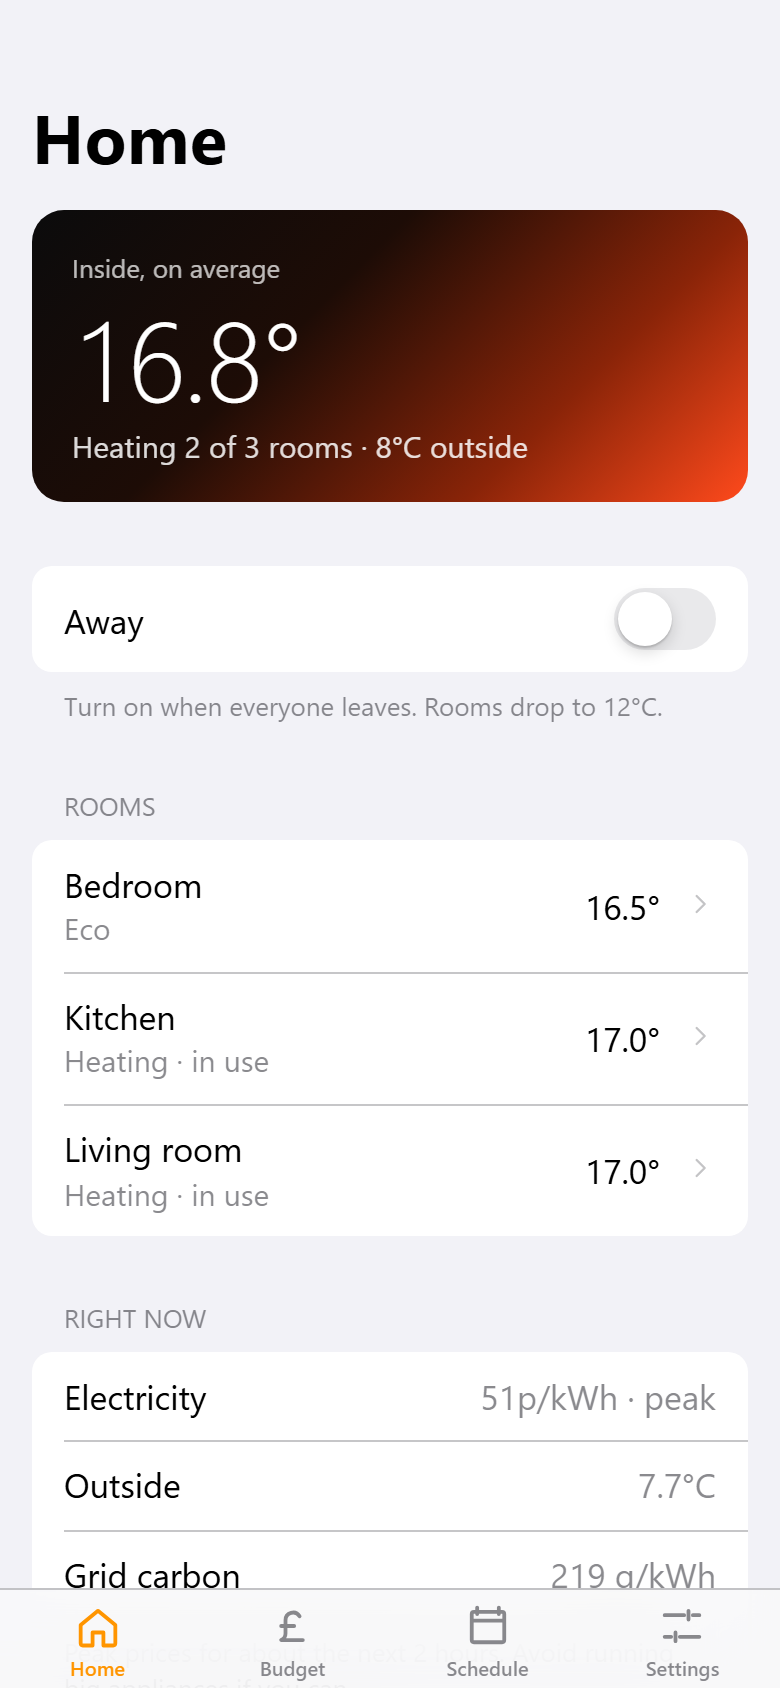
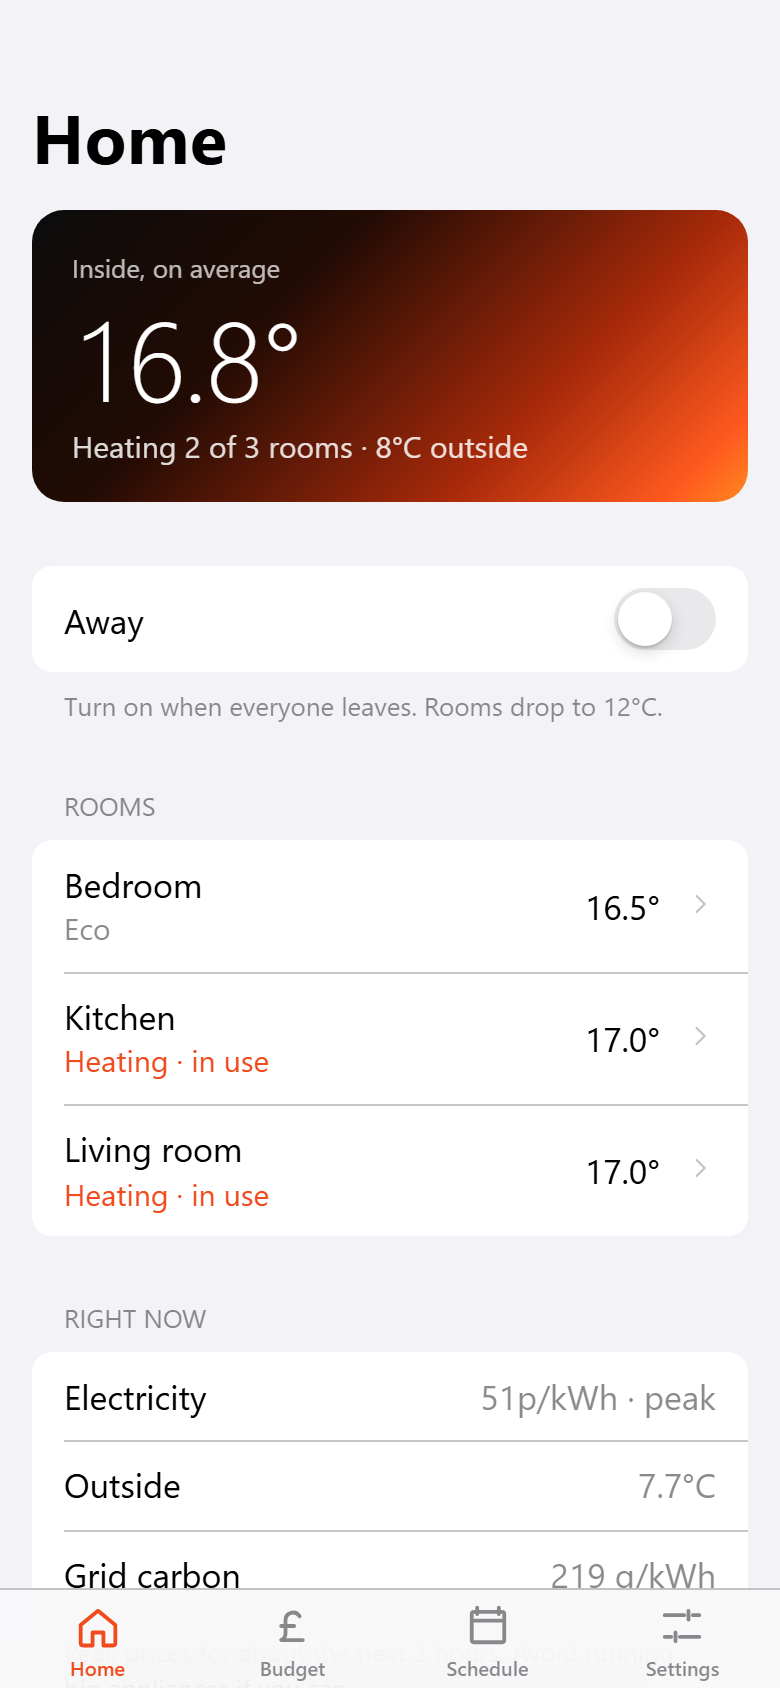
Add Appearance setting (System/Light/Dark) and an orange-red accent
Segmented control in Settings, remembered per device; accent moved to
orange-red with gradient chart bars, heating status text and a warmer
summary panel. Screenshots refreshed in both modes.

diff --git a/app/styles.css b/app/styles.css
@@ -14,7 +14,8 @@
   --fill: rgba(120, 120, 128, 0.16);
   --pressed: rgba(0, 0, 0, 0.06);
   --bar: rgba(249, 249, 249, 0.82);
-  --tint: #ff9500;          /* the one accent: system orange */
+  --tint: #f04a1d;          /* the one accent: orange-red */
+  --tint-2: #ff8a1f;        /* its warmer end, used only inside gradients */
   --red: #ff3b30;
   /* Text styles (rem so the browser's text size setting scales everything) */
   --large-title: 700 2.125rem/1.2 var(--font);
@@ -31,14 +32,14 @@
     --bg: #000000; --cell: #1c1c1e; --label: #ffffff;
     --secondary: rgba(235, 235, 245, 0.6); --tertiary: rgba(235, 235, 245, 0.3);
     --separator: rgba(84, 84, 88, 0.6); --fill: rgba(120, 120, 128, 0.32); --pressed: rgba(255, 255, 255, 0.08);
-    --bar: rgba(22, 22, 24, 0.82); --tint: #ff9f0a; --red: #ff453a;
+    --bar: rgba(22, 22, 24, 0.82); --tint: #ff6a3d; --tint-2: #ffa23a; --red: #ff453a;
   }
 }
 :root[data-theme="dark"] {
   --bg: #000000; --cell: #1c1c1e; --label: #ffffff;
   --secondary: rgba(235, 235, 245, 0.6); --tertiary: rgba(235, 235, 245, 0.3);
   --separator: rgba(84, 84, 88, 0.6); --fill: rgba(120, 120, 128, 0.32); --pressed: rgba(255, 255, 255, 0.08);
-  --bar: rgba(22, 22, 24, 0.82); --tint: #ff9f0a; --red: #ff453a;
+  --bar: rgba(22, 22, 24, 0.82); --tint: #ff6a3d; --tint-2: #ffa23a; --red: #ff453a;
 }
 
 * { box-sizing: border-box; }
@@ -74,6 +75,7 @@ button.row:active { background: var(--pressed); }
 .row-main { flex: 1 1 auto; min-width: 0; }
 .row-title { font: var(--body); }
 .row-sub { font: var(--subhead); color: var(--secondary); margin-top: 2px; }
+.row-sub.active { color: var(--tint); }
 .row-value { font: var(--body); color: var(--secondary); font-variant-numeric: tabular-nums; text-align: right;
              flex: 0 1 auto; min-width: 0; overflow-wrap: anywhere; }
 /* Large text: stack the value under the title, as iOS does at accessibility sizes */
@@ -92,17 +94,25 @@ button.row:active { background: var(--pressed); }
 .figure .caption { font: var(--subhead); color: var(--secondary); margin-top: 4px; }
 .progress { height: 6px; border-radius: 3px; background: var(--fill); margin-top: 12px; overflow: hidden; }
 .progress > span { display: block; height: 100%; border-radius: 3px;
-                   background: linear-gradient(90deg, var(--tint), #ff3b1f); }
+                   background: linear-gradient(90deg, var(--tint-2), var(--tint)); }
 
 /* Summary panel: the app's one splash of colour. Black into orange-red, like a Wallet card.
    Always dark with white text, so it reads the same in light and dark mode. */
 .hero { margin: 0 16px 32px; padding: 20px 20px 18px; border-radius: 16px; color: #fff;
-        background: linear-gradient(135deg, #0b0b0c 0%, #1d0c06 38%, #8a2408 72%, #ff4a1c 100%); }
+        background: linear-gradient(135deg, #0b0b0c 0%, #220b04 34%, #a82a0a 70%, #ff5a1f 92%, #ff8a1f 100%); }
 .hero .eyebrow { font: var(--footnote); color: rgba(255, 255, 255, 0.72); }
 .hero .reading { font: 300 3.5rem/1.05 var(--font); letter-spacing: -0.02em; margin-top: 6px; font-variant-numeric: tabular-nums; }
 .hero .detail { font: var(--subhead); color: rgba(255, 255, 255, 0.85); margin-top: 6px; }
 
 /* Controls */
+.segmented { display: flex; flex: 1; background: var(--fill); border-radius: 9px; padding: 2px; gap: 2px; }
+.segmented button { flex: 1; min-height: 32px; border: 0; border-radius: 7px; background: none; color: var(--label);
+                    font: 500 0.8125rem/1 var(--font); cursor: pointer; }
+.segmented button.on { background: var(--cell); box-shadow: 0 3px 8px rgba(0,0,0,.12), 0 1px 1px rgba(0,0,0,.08); font-weight: 600; }
+:root[data-theme="dark"] .segmented button.on { background: #636366; }
+@media (prefers-color-scheme: dark) { :root:not([data-theme="light"]) .segmented button.on { background: #636366; } }
+.segmented button:focus-visible { outline: 2px solid var(--tint); outline-offset: 1px; }
+
 .switch { position: relative; width: 51px; height: 31px; flex: none; }
 .switch input { position: absolute; inset: 0; opacity: 0; margin: 0; cursor: pointer; z-index: 1; }
 .switch span { position: absolute; inset: 0; border-radius: 16px; background: var(--fill); transition: background .2s; }
@@ -145,7 +155,8 @@ button.row:active { background: var(--pressed); }
 .chart svg { display: block; width: 100%; height: auto; }
 .chart .axis { fill: var(--secondary); font: var(--caption); }
 .chart .bar { fill: var(--fill); }
-.chart .bar.on { fill: var(--tint); }
+.chart .bar.on { fill: url(#heat); }
+.chart .heat-top { stop-color: var(--tint-2); } .chart .heat-bottom { stop-color: var(--tint); }
 .chart .grid { stroke: var(--separator); stroke-width: 0.5; }
 
 /* Content unavailable and loading */

diff --git a/app/js/ui.js b/app/js/ui.js
@@ -58,10 +58,10 @@ export function section({ header, footer, footerWarning } = {}, ...rows) {
 }
 
 // A row: title, optional subtitle, optional trailing value, optional chevron (navigation).
-export function row({ title, sub, value, strong, onClick, chevron, trailing, label }) {
+export function row({ title, sub, subActive, value, strong, onClick, chevron, trailing, label }) {
   const tag = onClick ? "button" : "div";
   return h(tag, { class: "row", role: onClick ? null : "listitem", onclick: onClick, "aria-label": label },
-    h("div", { class: "row-main" }, h("div", { class: "row-title" }, title), sub ? h("div", { class: "row-sub" }, sub) : null),
+    h("div", { class: "row-main" }, h("div", { class: "row-title" }, title), sub ? h("div", { class: "row-sub" + (subActive ? " active" : "") }, sub) : null),
     value != null ? h("span", { class: "row-value" + (strong ? " strong" : "") }, value) : null,
     trailing || null,
     chevron ? h("span", { class: "chevron" }, icon("chevronRight", 16)) : null);
@@ -85,6 +85,16 @@ export function stepper(value, { min, max, step = 1, onChange, label }) {
     onclick: () => { haptic(); onChange(Math.min(max, Math.max(min, value + delta))); },
   }, icon(name, 18));
   return h("div", { class: "stepper", role: "group", "aria-label": label }, btn("minus", -step, "Decrease"), btn("plus", step, "Increase"));
+}
+
+// Segmented control (Picker with .segmented style).
+export function segmented(options, selected, onChange, label) {
+  return h("div", { class: "segmented", role: "radiogroup", "aria-label": label },
+    options.map(o => h("button", {
+      type: "button", role: "radio", "aria-checked": String(o.id === selected),
+      class: o.id === selected ? "on" : null,
+      onclick: () => { if (o.id !== selected) { haptic(); onChange(o.id); } },
+    }, o.label)));
 }
 
 // ---------- Action sheet (confirmationDialog) ----------

diff --git a/app/js/screens/room.js b/app/js/screens/room.js
@@ -17,6 +17,11 @@ function planChart(hours, targets, kinds) {
   const y = t => top + (H - top - bottom) * (1 - (Math.min(hi, Math.max(lo, t)) - lo) / (hi - lo));
   const chart = svg("svg", { viewBox: `0 0 ${W} ${H}`, role: "img",
     "aria-label": `Planned temperature for the next 24 hours, heating in ${kinds.filter(k => k === "heat").length} of them` });
+  const defs = svg("defs", {});
+  const grad = svg("linearGradient", { id: "heat", x1: 0, y1: 0, x2: 0, y2: 1 });
+  grad.append(svg("stop", { offset: "0", class: "heat-top" }), svg("stop", { offset: "1", class: "heat-bottom" }));
+  defs.append(grad);
+  chart.append(defs);
   for (const t of [12, 17, 22]) chart.append(svg("line", { class: "grid", x1: 0, x2: W, y1: y(t), y2: y(t) }));
   targets.forEach((t, i) => chart.append(svg("rect", {
     class: "bar" + (kinds[i] === "heat" ? " on" : ""), x: i * bw + 1, width: bw - 2,
@@ -38,7 +43,7 @@ export function render({ state }, nav, roomId) {
     hero({ eyebrow: r.heating ? "Heating" : r.status, reading: temp(r.temp), label: `${roomName(r.name)} ${temp(r.temp)}, target ${temp(r.target)}`,
       detail: `Target ${temp(r.target)}` }),
     section({ header: "Why" }, h("div", { class: "text-cell" }, r.why)),
-    section({ header: "Next 24 hours", footer: "Orange hours are when it heats, based on your usual routine and today's electricity prices." },
+    section({ header: "Next 24 hours", footer: "Coloured hours are when it heats, based on your usual routine and today's electricity prices." },
       planChart(p.hours, p.targets[r.name], p.rooms[r.name])),
   ];
 }

diff --git a/app/js/screens/settings.js b/app/js/screens/settings.js
@@ -1,6 +1,7 @@
 // Settings: connect the calendar and set comfort. A plain form that saves as you go.
 import { api, store } from "../api.js";
-import { action, h, haptic, largeTitle, placeholderSection, row, section, stepper, unavailable } from "../ui.js";
+import * as theme from "../theme.js";
+import { action, h, haptic, largeTitle, placeholderSection, row, section, segmented, stepper, unavailable } from "../ui.js";
 
 export const title = "Settings";
 let calendarMessage = null;  // inline result of the last connect attempt
@@ -54,8 +55,11 @@ export function render({ state, loading, error }) {
   if (error && !state) return unavailable({ iconName: "offline", title: "Can't load settings",
     message: "Check that the Heatwise server is running, then try again.", actionLabel: "Try again", onAction: api.load });
   const c = state.comfort_c;
+  const appearance = theme.saved();
   return [
     largeTitle(title),
+    section({ header: "Appearance", footer: appearance === "system" ? "Follows your device's light or dark setting." : null },
+      h("div", { class: "row" }, segmented(theme.CHOICES, appearance, choice => { theme.set(choice); api.load(); }, "Appearance"))),
     calendarSection(state),
     section({ header: "Comfort", footer: "Used for rooms that are in use. Bedrooms stay at 17°C overnight." },
       row({ title: "Daytime", value: `${c}°C`,

diff --git a/app/js/theme.js b/app/js/theme.js
@@ -1,0 +1,27 @@
+// Appearance: System, Light or Dark. Remembered on this device only (browser storage),
+// which is fine for a display preference. Storage can be unavailable (private mode),
+// so every access is wrapped and the app falls back to System.
+
+const KEY = "heatwise-appearance";
+export const CHOICES = [
+  { id: "system", label: "System" },
+  { id: "light", label: "Light" },
+  { id: "dark", label: "Dark" },
+];
+
+export function saved() {
+  try { return localStorage.getItem(KEY) || "system"; } catch { return "system"; }
+}
+
+export function apply(choice) {
+  const root = document.documentElement;
+  if (choice === "light" || choice === "dark") root.dataset.theme = choice;
+  else delete root.dataset.theme;
+  const dark = choice === "dark" || (choice === "system" && matchMedia("(prefers-color-scheme: dark)").matches);
+  document.querySelector('meta[name="theme-color"]:not([media])')?.setAttribute("content", dark ? "#000000" : "#f2f2f7");
+}
+
+export function set(choice) {
+  try { localStorage.setItem(KEY, choice); } catch { /* not stored; still applies for this visit */ }
+  apply(choice);
+}

diff --git a/app/js/main.js b/app/js/main.js
@@ -1,6 +1,7 @@
 // App shell: tab bar (TabView), a navigation stack per tab, and rendering from the store.
 import { api, store, subscribe } from "./api.js";
 import { h, icon } from "./ui.js";
+import * as theme from "./theme.js";
 import * as home from "./screens/home.js";
 import * as room from "./screens/room.js";
 import * as budget from "./screens/budget.js";
@@ -17,7 +18,8 @@ const PUSHED = { room };
 
 // Preview helpers for design review: ?theme=dark|light and ?text=xl (largest text size).
 const params = new URLSearchParams(location.search);
-if (params.get("theme")) document.documentElement.dataset.theme = params.get("theme");
+theme.apply(params.get("theme") || theme.saved());
+matchMedia("(prefers-color-scheme: dark)").addEventListener("change", () => theme.apply(params.get("theme") || theme.saved()));
 if (params.get("text") === "xl") document.documentElement.style.fontSize = "160%";
 
 // Each tab keeps its own navigation stack, like a NavigationStack inside each TabView tab.

diff --git a/app/js/screens/schedule.js b/app/js/screens/schedule.js
@@ -36,7 +36,7 @@ export function render({ state, loading, error }) {
 
   const out = [largeTitle(title)];
   out.push(heating.length
-    ? section({ header: "Next 24 hours" }, heating.map(r => row({ title: roomName(r.name), sub: `Heating ${span(r)}` })))
+    ? section({ header: "Next 24 hours" }, heating.map(r => row({ title: roomName(r.name), sub: `Heating ${span(r)}`, subActive: true })))
     : section({ header: "Next 24 hours", footer: "Nothing needs heating in the next 24 hours." }, row({ title: "No heating planned" })));
   if (cheap.length) {
     out.push(section({ header: "Cheapest hours", footer: "Good times to run the dishwasher or washing machine." },

diff --git a/app/js/screens/home.js b/app/js/screens/home.js
@@ -31,7 +31,7 @@ export function render({ state, loading, error }, nav) {
       row({ title: "Away", trailing: toggle(s.away, on => api.away(on), "Away") })),
     section({ header: "Rooms" },
       s.rooms.map(r => row({
-        title: roomName(r.name), sub: roomStatus(r), value: temp(r.temp), strong: true, chevron: true,
+        title: roomName(r.name), sub: roomStatus(r), subActive: r.heating, value: temp(r.temp), strong: true, chevron: true,
         label: `${roomName(r.name)}, ${temp(r.temp)}, ${roomStatus(r)}`,
         onClick: () => nav.push("room", r.name),
       }))),

diff --git a/app/index.html b/app/index.html
@@ -6,6 +6,7 @@
 <meta name="color-scheme" content="light dark">
 <meta name="theme-color" content="#f2f2f7" media="(prefers-color-scheme: light)">
 <meta name="theme-color" content="#000000" media="(prefers-color-scheme: dark)">
+<meta name="theme-color" content="#f2f2f7">
 <meta name="apple-mobile-web-app-capable" content="yes">
 <meta name="apple-mobile-web-app-title" content="Heatwise">
 <title>Heatwise</title>

diff --git a/tools/screenshots.py b/tools/screenshots.py
@@ -36,7 +36,9 @@ SHOTS = {
     "room-light": "?theme=light&room=living",
     "budget-light": "?theme=light&tab=budget",
     "schedule-light": "?theme=light&tab=schedule",
+    "settings-light": "?theme=light&tab=settings",
     "settings-dark": "?theme=dark&tab=settings",
+    "room-dark": "?theme=dark&room=living",
 }
 PORT = 9333
 

diff --git a/docs/DECISIONS.md b/docs/DECISIONS.md
@@ -181,3 +181,5 @@ So Heatwise is **7.8% cheaper with 5.5% less CO₂ at much higher comfort**. The
 | U19 | No emoji anywhere, including the demo calendar ("Trip to Manchester") | Part of the standard. |
 | U20 | **One splash of colour:** a black → orange-red gradient summary panel at the top of Home (average inside temperature, rooms heating) and Room (temperature and target), plus an orange → red Budget progress bar. Text on the panel is always white, so it reads the same in light and dark. | The team asked for black and orange-red. The standard bans purple, blue and pink gradient backgrounds and gradient text or buttons. One dark gradient panel per screen is in line with Apple's Wallet and Fitness, and keeping everything else plain stops it looking like a template. |
 | U21 | `tools/screenshots.py` drives Chrome through the DevTools protocol at exactly 390 × 844 at 2×, and the app accepts `?tab=` and `?room=` deep links | Headless Chrome on Windows won't lay out narrower than about 500px, so `--window-size` screenshots came out clipped. Deep links let each screen be captured directly. |
+| U22 | **Appearance setting: System, Light or Dark** (segmented control in Settings), saved in this browser's storage. Storage failures fall back to System. `?theme=` still overrides for previews. | The team wants both modes available. It's a per-device display preference, so browser storage is the right place, not the server. |
+| U23 | **Accent moved from system orange to orange-red** (`#f04a1d` light, `#ff6a3d` dark), with a warmer partner (`--tint-2`) used only inside gradients. Heating status text, the tab bar, actions, the switch, gradient chart bars and the progress bar all use it. | The team asked for more orange-red. It's still one accent hue, used on interactive elements and the "heating" state. The light value is darker than pure orange-red so text keeps reasonable contrast on white. |

diff --git a/README.md b/README.md
@@ -75,7 +75,7 @@ Four tabs:
 - **Home:** the Away switch (every room to 12°C), each room's temperature and status, and the price, outside temperature and grid carbon right now. Tap a room to see its target, **why** it's at that target, and a chart of the next 24 hours.
 - **Budget:** spent this week against your budget, the projection, credit left and CO₂. **Top up** (£5, £10 or £20 through SolvaPay) and a comfort trim stepper.
 - **Schedule:** which rooms heat when over the next 24 hours, the cheapest hours, and calendar events with what each one does to the heating.
-- **Settings:** connect Google Calendar (secret iCal link), the daytime comfort temperature, and a **Demo** section to move the simulated week along (the home starts on Monday at 16:00).
+- **Settings:** Appearance (System, Light or Dark), connect Google Calendar (secret iCal link), the daytime comfort temperature, and a **Demo** section to move the simulated week along (the home starts on Monday at 16:00).
 
 Design review helpers: add `?theme=dark`, `?theme=light` or `?text=xl` (largest text size) to the URL.
 
